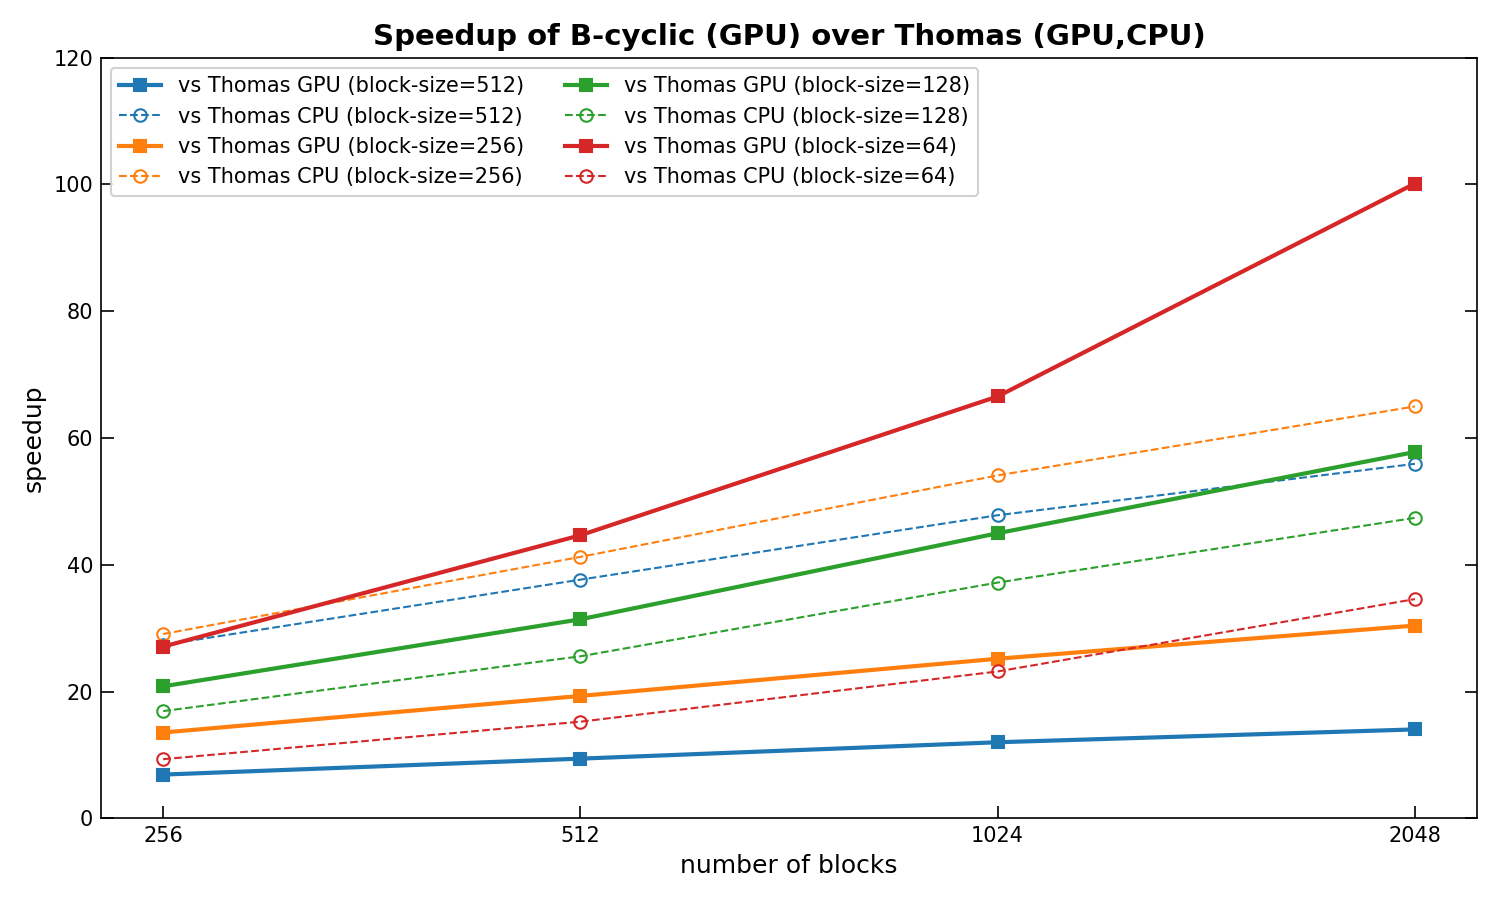
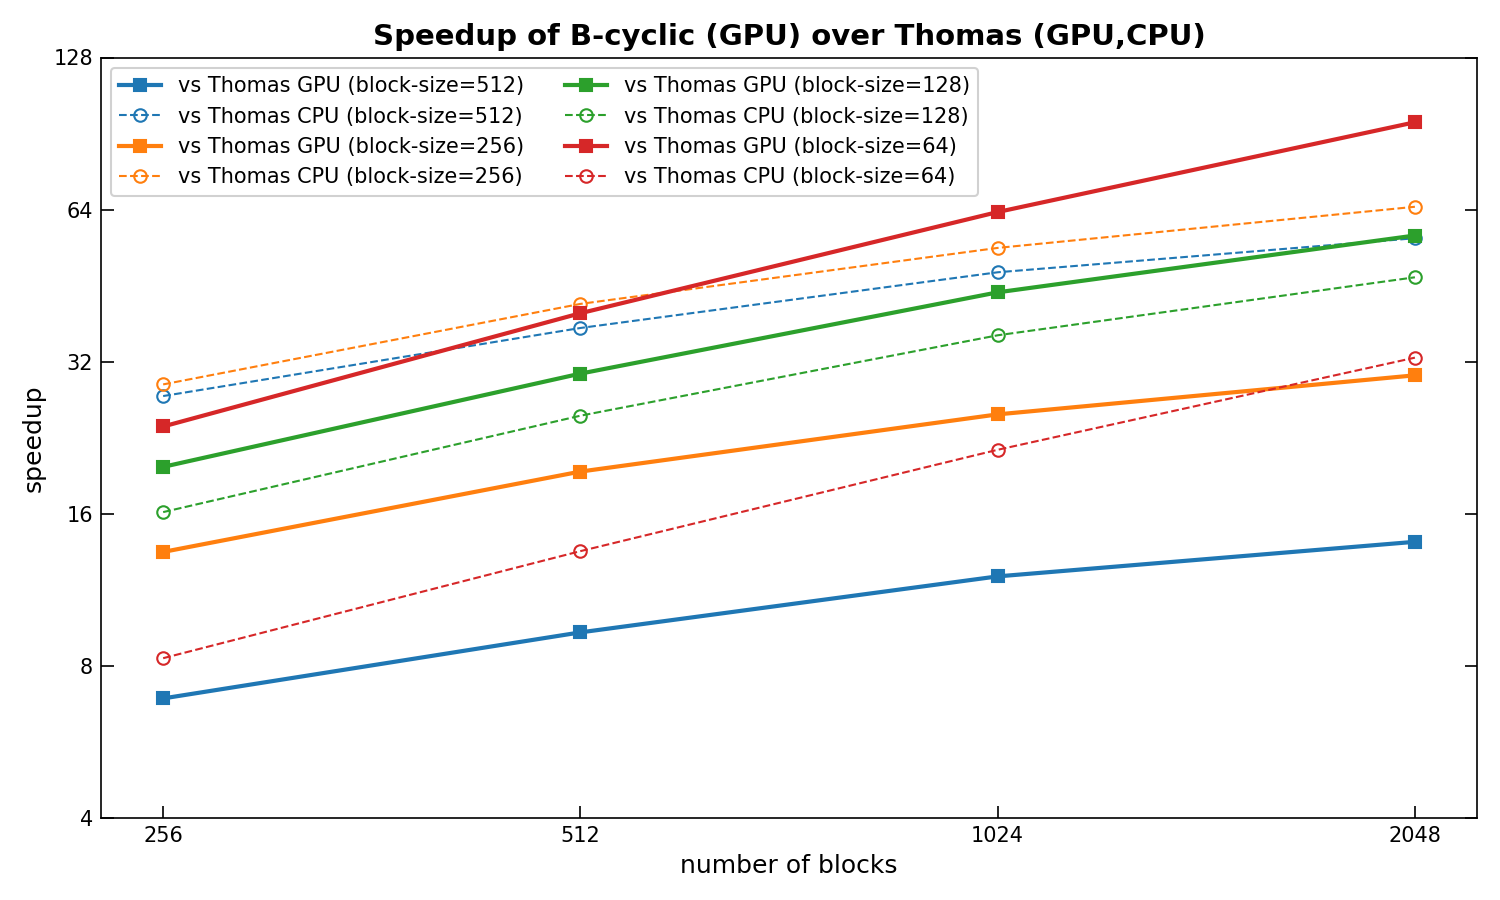
update plots

diff --git a/examples/timing/plot.py b/examples/timing/plot.py
@@ -186,9 +186,12 @@ def main():
     ax.set_xscale("log", base=2)
     ax.set_xticks([256, 512, 1024, 2048])
     ax.set_xticklabels([256, 512, 1024, 2048])
+    ax.set_yscale("log", base=2)
+    ax.set_yticks([2, 4, 8, 16, 32, 64, 128], minor=True)
+    ax.set_yticklabels([2, 4, 8, 16, 32, 64, 128])
     ax.tick_params(axis="both", which="both", direction="in", length=6)
     ax.yaxis.set_ticks_position("both")
-    ax.set_ylim(0, 120)
+    ax.set_ylim(4, 128)
     ax.set_xlabel("number of blocks", fontsize=12)
     ax.set_ylabel("speedup", fontsize=12)
     ax.set_title(
